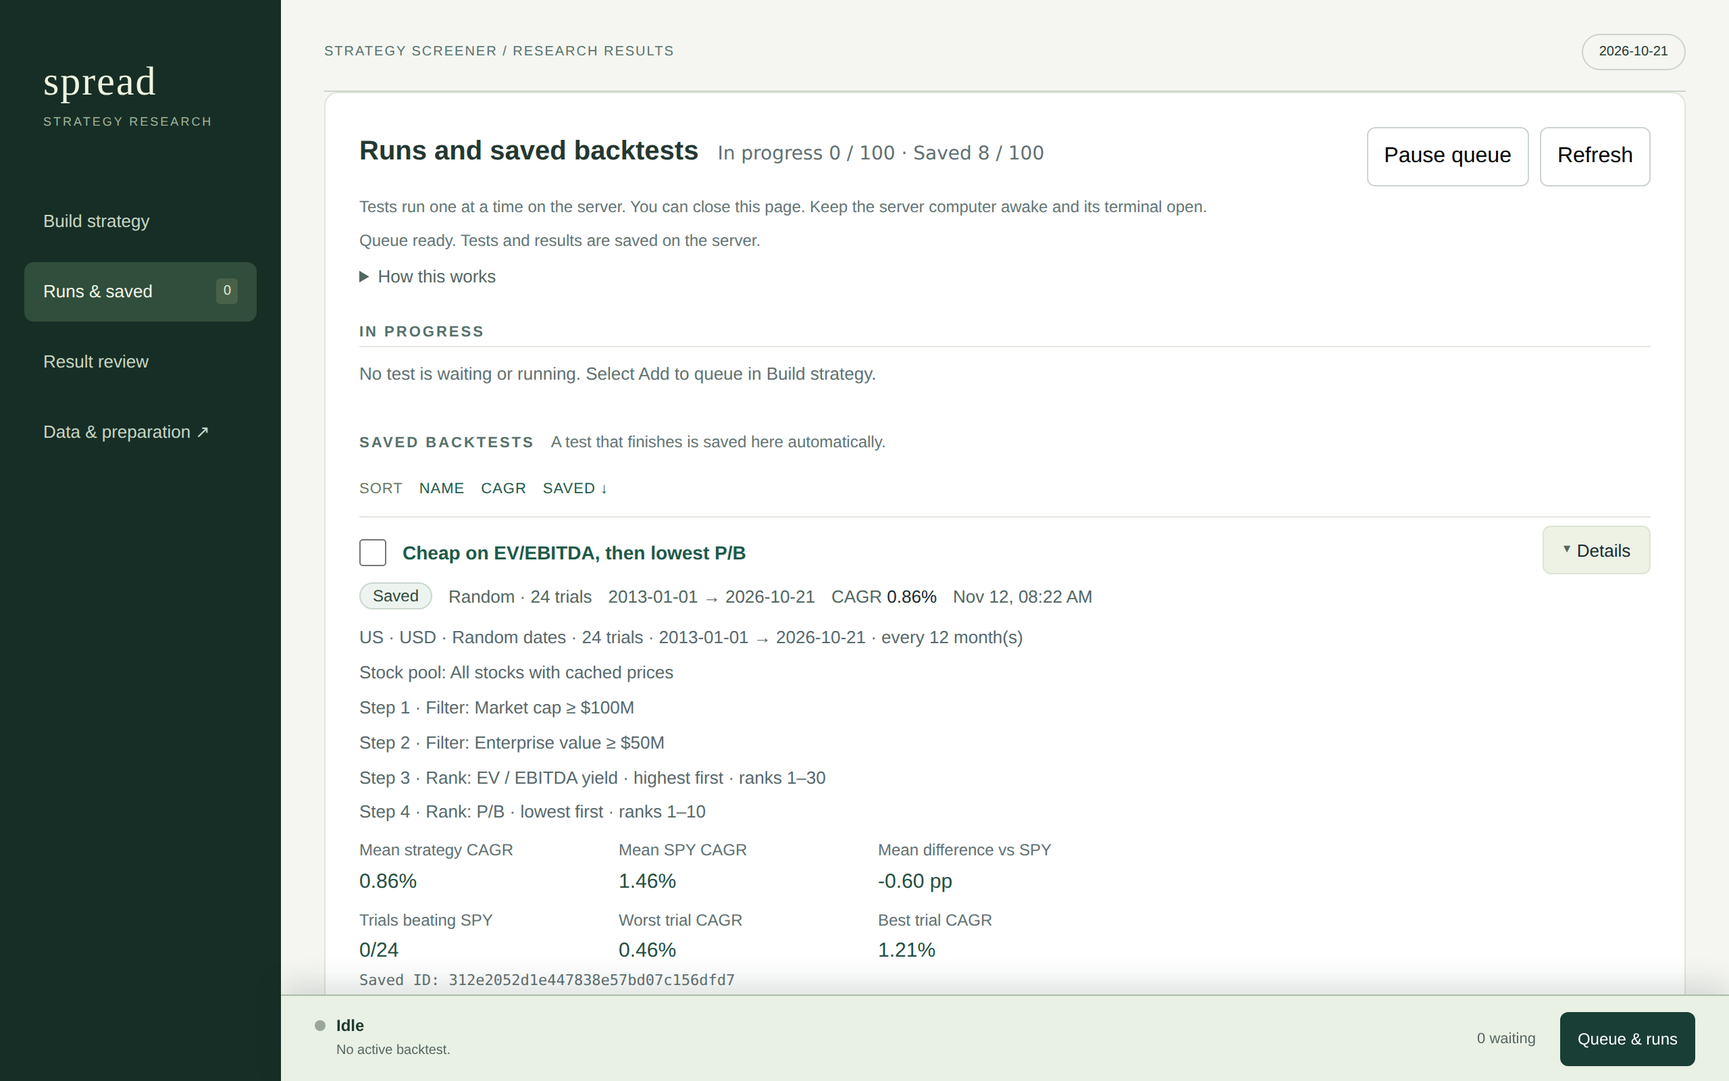
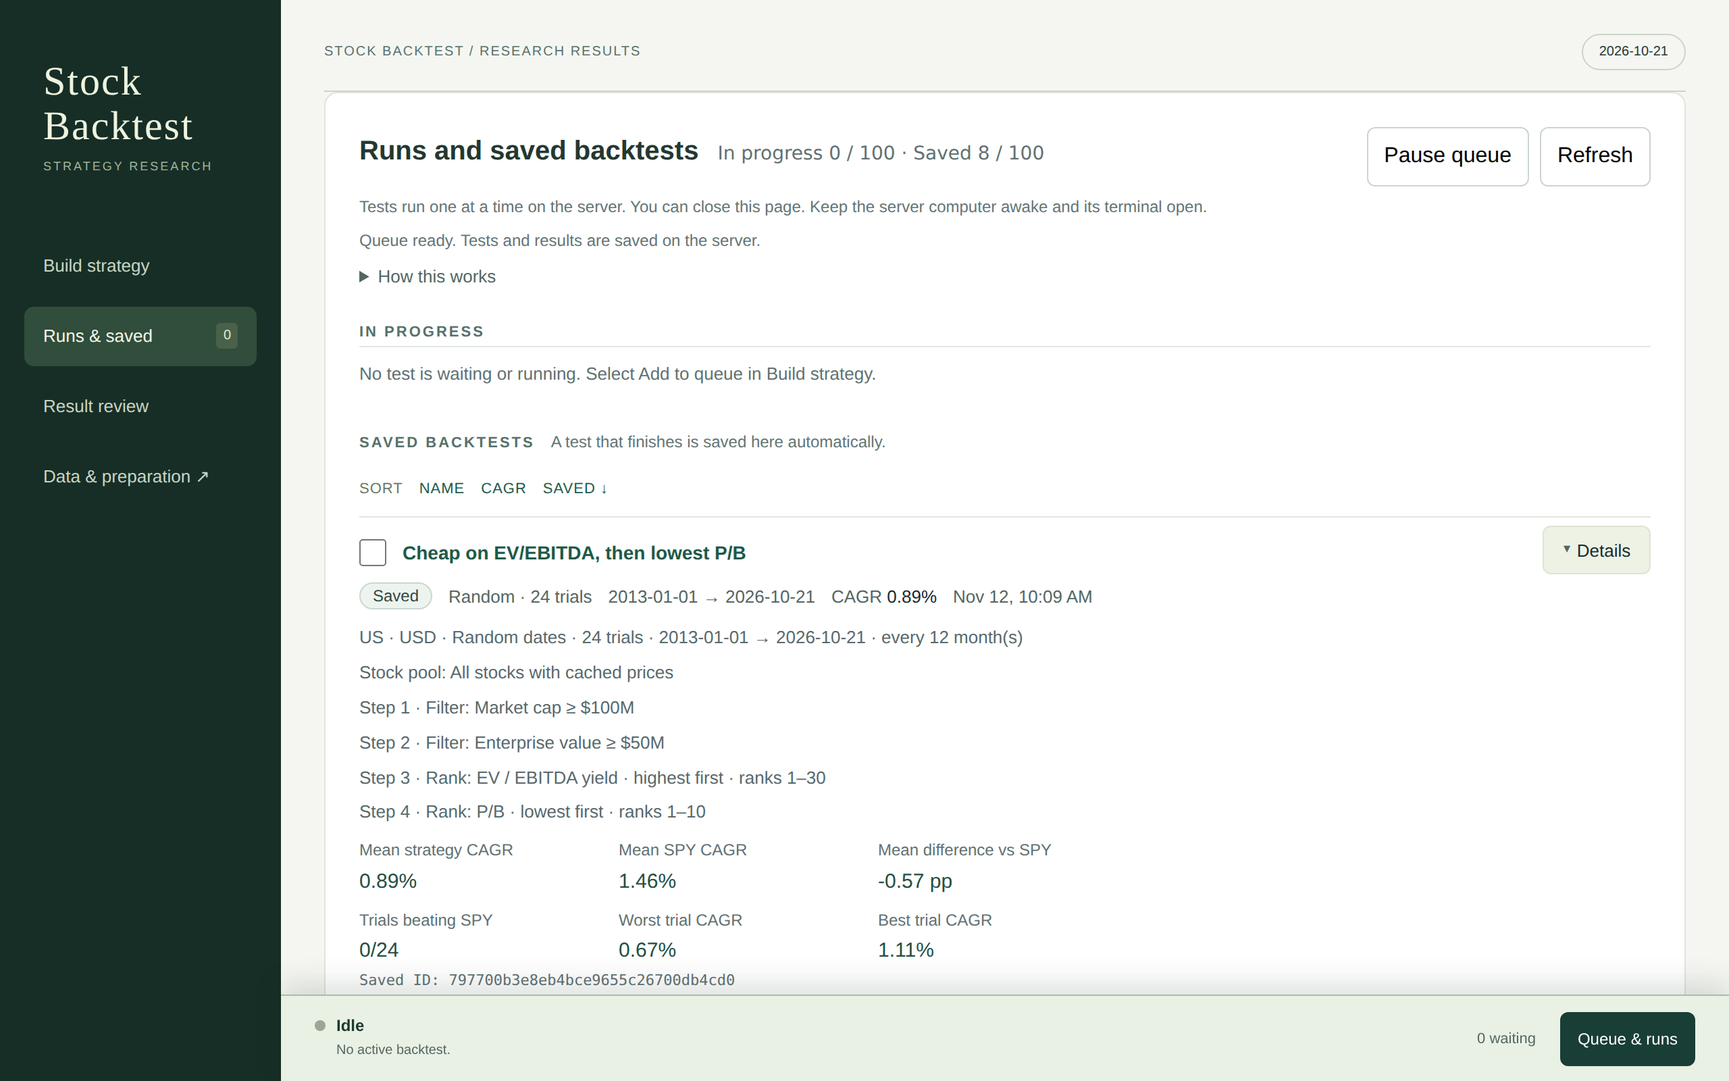
Use the name Stock Backtest across the website and the guide
- Website: the sidebar brand and the line at the top of each screen say
  Stock Backtest instead of "spread" and "Strategy screener".
- website/README.md is titled Stock Backtest website.
- Architecture guide: its tab title, sidebar label and main heading use
  the name instead of "How your backtest works" and "EBITDA / EV · User
  guide". No claim about the code changed, so the checked date stays.
- The README screenshots are taken again to show the new name.

Checks: fast tier 100/100; architecture guide check; check_records.

diff --git a/docs/architecture-guide/dist/index.html b/docs/architecture-guide/dist/index.html
@@ -5,7 +5,7 @@
 <meta name="viewport" content="width=device-width, initial-scale=1">
 <meta name="description" content="A plain-language guide to the EBITDA/EV backtest: data, stock selection, saved books, website modes and tested speed improvements.">
 <meta name="theme-color" content="#173f36">
-<title>How your backtest works · A plain-language guide</title>
+<title>Stock Backtest · Architecture guide</title>
 <style>
 :root{--paper:#f7f7f0;--white:#fff;--ink:#20352e;--muted:#617268;--green:#173f36;--accent:#cbea8b;--line:#dbe1d6;--soft:#edf1e7;--orange:#a85728;--orange-soft:#fbf0e4;--radius:16px}*{box-sizing:border-box}html{scroll-behavior:smooth;scroll-padding-top:30px}body{margin:0;background:var(--paper);color:var(--ink);font-family:system-ui,-apple-system,BlinkMacSystemFont,"Segoe UI",sans-serif;font-size:16px;line-height:1.65}a{color:var(--green);text-underline-offset:4px}button,select{font:inherit}button,a,select{touch-action:manipulation}button:focus-visible,a:focus-visible,select:focus-visible,summary:focus-visible{outline:3px solid #719d2d;outline-offset:4px}button{cursor:pointer}button:disabled{cursor:default}.skip{position:absolute;left:20px;top:-100px;background:var(--accent);padding:12px;z-index:10}.skip:focus{top:10px}.sidebar{position:fixed;inset:0 auto 0 0;width:250px;padding:35px 26px;background:var(--green);color:#fff;display:flex;flex-direction:column;z-index:3}.brand{display:flex;align-items:center;gap:12px;color:#fff;text-decoration:none;font-weight:650;line-height:1.35;letter-spacing:-.3px}.brand svg{width:39px;height:39px;flex-shrink:0}.brand small{display:block;font-size:11px;text-transform:uppercase;letter-spacing:1.8px;color:#b5c6bd;margin-top:4px}.sidebar nav{margin-top:48px;display:grid;gap:5px}.sidebar nav a{display:flex;gap:13px;padding:9px 11px;border-radius:8px;color:#d0dfd6;text-decoration:none;font-size:13px}.sidebar nav a span{font-size:11px;opacity:.6;align-self:center}.sidebar nav a:hover,.sidebar nav a[aria-current="location"]{background:#2d5549;color:#fff}.side-bottom{margin-top:auto;padding-top:22px;font-size:11px;color:#b5c6bd}.side-bottom strong{display:block;color:#e9f2e4;font-size:12px;font-weight:500;margin-bottom:7px}.print-button{border:1px solid #6d8a7b;background:transparent;color:#fff;border-radius:8px;padding:8px 12px;width:100%;margin-top:15px;font-size:12px}.print-button:hover{background:#2d5549}main{max-width:1330px;margin-left:250px;padding:43px 58px 30px}.topline{display:flex;justify-content:space-between;gap:15px;align-items:center;font-size:11px;letter-spacing:1.5px;text-transform:uppercase;color:var(--muted);padding-bottom:26px;border-bottom:1px solid var(--line)}.tag{display:inline-flex;align-items:center;gap:6px;border:1px solid var(--line);border-radius:99px;padding:5px 10px;font-size:10px;letter-spacing:1px;line-height:1.5}.tag::before{content:"";width:6px;height:6px;border-radius:50%;background:#719d2d}.hero{padding:55px 0 44px;max-width:850px}.eyebrow{font-size:11px;letter-spacing:1.8px;text-transform:uppercase;font-weight:700;color:var(--muted);margin:0 0 15px}h1,h2,h3,p{margin-top:0}h1,h2{font-family:Georgia,"Times New Roman",serif;font-weight:400;letter-spacing:-1.9px;line-height:1.09}h1{font-size:clamp(40px,5.2vw,69px);max-width:760px;margin-bottom:22px}h1 em{font-style:normal;color:#5a7651}h2{font-size:clamp(30px,3vw,43px);margin-bottom:18px;letter-spacing:-1px}h3{font-size:17px;letter-spacing:-.3px;line-height:1.4;margin-bottom:10px}p{margin-bottom:14px}.lead{font-size:18px;line-height:1.65;color:var(--muted);max-width:710px}.hero-facts{display:flex;gap:9px;flex-wrap:wrap;margin-top:25px}.hero-facts span{padding:5px 11px;background:var(--soft);border-radius:5px;font-size:12px}.section{padding:45px 0;border-top:1px solid var(--line);scroll-margin-top:25px}.section-head{max-width:760px;margin-bottom:25px}.section-head p{color:var(--muted);max-width:690px}.label{font-size:10px;text-transform:uppercase;letter-spacing:1.6px;font-weight:700;margin-bottom:10px;color:var(--muted)}.flow{display:grid;grid-template-columns:repeat(4,minmax(0,1fr));gap:12px}.flow-step{position:relative;background:var(--white);border:1px solid var(--line);border-radius:var(--radius);padding:22px 18px;min-height:178px;text-align:left;color:var(--ink)}.flow-step:not(:last-child)::after{content:"→";position:absolute;right:-15px;top:43%;z-index:1;background:var(--paper);color:var(--muted);font-size:19px;width:18px;text-align:center}.flow-step[aria-pressed="true"]{background:var(--green);border-color:var(--green);color:white}.step-number{display:block;font-size:11px;color:var(--muted);margin-bottom:17px}.flow-step[aria-pressed="true"] .step-number,.flow-step[aria-pressed="true"] .step-desc{color:#c1d5c6}.step-name{display:block;font-weight:650;font-size:16px;margin-bottom:7px}.step-desc{display:block;font-size:12px;line-height:1.6;color:var(--muted)}.flow-detail{padding:21px 24px;background:var(--soft);border-radius:10px;margin-top:14px;min-height:103px}.flow-detail h3{font-size:15px;margin-bottom:5px}.flow-detail p{font-size:14px;margin:0}.caption{font-size:12px;color:var(--muted);margin-top:13px;margin-bottom:0}.split{display:grid;grid-template-columns:1fr 1fr;gap:20px}.panel{background:var(--white);border:1px solid var(--line);border-radius:var(--radius);padding:25px}.panel p,.panel li{font-size:14px}.panel p:last-child{margin-bottom:0}.panel ul{padding-left:19px;margin-bottom:0}.panel li+li{margin-top:8px}.mode-tabs{display:flex;flex-wrap:wrap;gap:7px;margin-bottom:16px}.mode-tabs button{border:1px solid var(--line);border-radius:99px;padding:8px 15px;background:transparent;color:var(--muted);font-size:13px}.mode-tabs button[aria-pressed="true"]{background:var(--green);color:white;border-color:var(--green)}.mode-content{background:var(--white);border:1px solid var(--line);border-radius:var(--radius);padding:28px}.mode-status{font-size:10px;letter-spacing:1.1px;text-transform:uppercase;color:var(--muted);margin-bottom:12px}.mode-content h3{font-size:24px;font-family:Georgia,serif;font-weight:400}.route{display:flex;gap:9px;align-items:center;flex-wrap:wrap;margin:22px 0;font-size:12px}.route span{background:var(--soft);padding:9px 12px;border-radius:6px}.route b{font-weight:400;color:var(--muted)}.mode-content>p{font-size:14px;max-width:730px}.mode-panels{margin-bottom:16px}.mode-content[hidden]{display:none}.recipe{counter-reset:recipe;list-style:none;padding:0;margin:0;display:grid;grid-template-columns:1fr 1fr;gap:0 30px}.recipe li{counter-increment:recipe;position:relative;padding:23px 0 23px 43px;border-bottom:1px solid var(--line)}.recipe li::before{content:counter(recipe,decimal-leading-zero);position:absolute;left:0;top:23px;font-size:12px;color:#678355;font-weight:650}.recipe h3{font-size:16px;margin-bottom:7px}.recipe p{font-size:14px;color:var(--muted);margin:0}.note{border-left:3px solid #84a960;background:var(--soft);padding:17px 20px;margin-top:24px;font-size:14px}.note p:last-child{margin:0}.note.orange{border-color:#be8658;background:var(--orange-soft)}.formula{font-family:ui-monospace,SFMono-Regular,Consolas,monospace;background:var(--green);color:#e6efdf;padding:16px 20px;border-radius:9px;font-size:13px;overflow-wrap:anywhere;margin-top:20px}.settings{background:var(--green);color:#fff;border-radius:var(--radius);padding:26px;margin-top:24px}.settings .label{color:#c3d5c5}.settings-grid{display:grid;grid-template-columns:1.3fr .7fr 1.2fr;gap:14px}.settings label{font-size:12px;display:block}.settings select{display:block;width:100%;margin-top:7px;padding:10px 9px;border:1px solid #567566;background:#254f43;color:white;border-radius:7px;font-size:13px}.settings select option{color:var(--ink);background:white}.settings-explanation{margin:20px 0 0;font-size:14px;color:#e1ecdf;min-height:77px}.settings-explanation strong{color:var(--accent)}.table-wrap{overflow:auto;border:1px solid var(--line);border-radius:12px;background:#fff}table{width:100%;border-collapse:collapse;font-size:13px;text-align:left}th{background:var(--soft);font-size:11px;font-weight:600;color:var(--muted)}td,th{padding:14px 18px;border-bottom:1px solid var(--line);vertical-align:top}tr:last-child td{border-bottom:0}td:first-child{font-weight:550}td:last-child{color:var(--muted)}.cache-tip{display:flex;align-items:flex-start;gap:14px;margin-top:20px;padding:20px 23px;border:1px dashed #a7b69d;border-radius:12px}.cache-icon{font-size:24px;color:#6a8552;line-height:1.3}.cache-tip h3{font-size:15px;margin-bottom:5px}.cache-tip p{font-size:13px;color:var(--muted);margin:0}.comparison{display:grid;grid-template-columns:1fr 1fr;gap:18px;margin-bottom:25px}.comparison .panel{padding:22px}.comparison .label{margin-bottom:15px}.mini-flow{display:flex;flex-wrap:wrap;gap:6px;align-items:center;font-size:11px}.mini-flow span{padding:7px 9px;border:1px solid var(--line);border-radius:5px;background:var(--soft)}.mini-flow .unused{background:var(--orange-soft);border-color:#e4c6a9;color:var(--orange)}.mini-flow .selected{background:#e5f0d3;border-color:#c8dda6}.comparison p{font-size:13px;color:var(--muted);margin-top:16px}.bench{border:1px solid var(--line);border-radius:var(--radius);background:white;padding:27px}.bench-top{display:flex;justify-content:space-between;align-items:center;gap:10px;margin-bottom:24px}.bench-top h3{margin:0;font-size:16px}.prototype{font-size:10px;letter-spacing:1px;text-transform:uppercase;background:var(--orange-soft);color:var(--orange);border-radius:5px;padding:4px 8px;white-space:nowrap}.bench-row{display:grid;grid-template-columns:190px 1fr 83px;align-items:center;gap:16px;margin:20px 0;font-size:13px}.bench-row .bar-track{height:30px;background:var(--soft);border-radius:5px;overflow:hidden}.bar{height:100%;background:#aab7a0;border-radius:5px}.bar.green{background:var(--green)}.bar.lime{background:#91b25f}.bench-time{text-align:right;font-variant-numeric:tabular-nums;font-weight:650}.bench-row small{display:block;color:var(--muted);font-size:10px;font-weight:400}.bench .caption{line-height:1.75}.status-grid{display:grid;grid-template-columns:1fr 1fr;gap:20px;margin-top:22px}.status-grid p{font-size:13px;color:var(--muted)}.status-grid strong{color:var(--ink)}details{border-bottom:1px solid var(--line);padding:15px 0}summary{cursor:pointer;font-size:14px;font-weight:600;padding-right:10px}details p,details ul{font-size:14px;color:var(--muted);margin-top:12px;margin-bottom:5px}details li{margin-bottom:7px}code{font-family:ui-monospace,SFMono-Regular,Consolas,monospace;font-size:.88em;background:var(--soft);padding:2px 5px;border-radius:4px;overflow-wrap:anywhere}.files td:first-child{width:33%}.files code{display:block;font-size:11px;margin-top:5px;line-height:1.8;background:none;padding:0;color:var(--muted)}.glossary{display:grid;grid-template-columns:1fr 1fr;gap:0 28px;margin:0}.glossary div{padding:16px 0;border-bottom:1px solid var(--line)}dt{font-size:14px;font-weight:650;margin-bottom:5px}dd{font-size:13px;color:var(--muted);margin:0}.footer{border-top:1px solid var(--line);padding:25px 0 10px;display:flex;justify-content:space-between;gap:20px;font-size:11px;color:var(--muted)}.footer a{color:inherit}.readable-width{max-width:760px}
 @media(min-width:1500px){main{margin-left:calc(250px + (100vw - 1500px)/2)}}@media(max-width:1100px){.sidebar{width:215px;padding:28px 18px}main{margin-left:215px;padding:32px}.flow{gap:9px}.flow-step{padding:18px 12px}.settings-grid{grid-template-columns:1fr 1fr}.settings-grid label:last-child{grid-column:1/-1}.bench-row{grid-template-columns:150px 1fr 75px}}@media(max-width:760px){html{scroll-padding-top:20px}.sidebar{position:relative;width:auto;padding:20px;display:block}.brand svg{width:32px;height:32px}.brand small{font-size:9px}.sidebar nav{display:flex;gap:4px;overflow:auto;margin-top:20px;padding-bottom:3px}.sidebar nav a{white-space:nowrap;font-size:12px;padding:7px 9px}.sidebar nav a span{display:none}.side-bottom{display:none}main{margin:0;padding:25px 21px}.topline{font-size:9px;letter-spacing:1px;padding-bottom:20px}.hero{padding:35px 0}.hero .lead{font-size:16px}.section{padding:34px 0}.flow{grid-template-columns:1fr 1fr;gap:10px}.flow-step{min-height:145px;padding:17px}.flow-step::after{display:none}.step-number{margin-bottom:11px}.split,.comparison,.status-grid,.recipe,.glossary{grid-template-columns:1fr}.recipe{gap:0}.settings-grid{grid-template-columns:1fr}.settings-grid label:last-child{grid-column:auto}.settings{padding:21px}.bench{padding:20px 17px}.bench-top{align-items:flex-start}.bench-row{grid-template-columns:1fr 72px;gap:8px;margin:22px 0}.bench-row .bar-track{grid-row:2;grid-column:1/-1;height:23px}.bench-time{grid-row:1;grid-column:2}.mode-content{padding:22px}.table-wrap{font-size:12px}td,th{padding:12px}.footer{display:block}.footer p{margin-bottom:8px}h2{font-size:32px}}
@@ -15,7 +15,7 @@
 <body>
 <a class="skip" href="#main">Skip to the guide</a>
 <aside class="sidebar" aria-label="Guide navigation">
-  <a class="brand" href="#overview"><svg viewBox="0 0 40 40" aria-hidden="true"><rect x="1" y="1" width="38" height="38" rx="10" fill="none" stroke="#668b70"/><path d="M10 28V18m10 10V11m10 17V20" stroke="#cbea8b" stroke-width="3" stroke-linecap="round"/></svg><span>Inside the backtest<small>EBITDA / EV · User guide</small></span></a>
+  <a class="brand" href="#overview"><svg viewBox="0 0 40 40" aria-hidden="true"><rect x="1" y="1" width="38" height="38" rx="10" fill="none" stroke="#668b70"/><path d="M10 28V18m10 10V11m10 17V20" stroke="#cbea8b" stroke-width="3" stroke-linecap="round"/></svg><span>Stock Backtest<small>Architecture guide</small></span></a>
   <nav aria-label="Contents">
     <a href="#overview" aria-current="location"><span>01</span>The whole system</a>
     <a href="#modes"><span>02</span>Four ways to use it</a>
@@ -32,7 +32,7 @@
   <div class="topline"><span>Your stock research workspace</span><span class="tag">Architecture, in plain language</span></div>
   <header class="hero" id="overview">
     <p class="eyebrow">01 / The whole system</p>
-    <h1>How your<br><em>backtest works.</em></h1>
+    <h1>How Stock<br><em>Backtest works.</em></h1>
     <p class="lead">The program uses saved company data and prices to select stocks. It then checks how those stocks performed.</p>
     <p class="readable-width">This guide explains each part, how the parts connect, and why some runs take longer. You do not need to read the code.</p>
     <div class="hero-facts"><span>Saved data</span><span>One set of selection rules</span><span>Four ways to use it</span><span>No downloads during a backtest</span></div>

diff --git a/website/browser/template.html b/website/browser/template.html
@@ -7,7 +7,7 @@ input{font:inherit;padding:9px;border:1px solid #ccd5d0;border-radius:5px;width:
 .backtest-failed{color:#a93830;font-weight:600}button:disabled{opacity:.65;cursor:wait}
 .extra-filters{margin-top:14px;border-top:1px solid #e2e7df;padding-top:12px}.extra-filters h3{font-size:16px;margin:0}
 .run-controls{display:flex;align-items:center;gap:12px;flex-wrap:wrap;margin:18px 0}.run-controls label{display:flex;align-items:center;gap:9px;min-height:44px}#results-state{border:1px solid #b5d3c6;margin:0 0 10px}.result-note{font-size:12px;line-height:1.5;color:#647575;margin:0 0 6px;max-width:960px}#results-state.warning{border-color:#d4a34f;font-weight:600}[data-results-stale="true"]{border-left:4px solid #d4a34f;padding-left:16px}
-</style></head><body>__WORKSPACE_NAV__<main><header><span class="eyebrow">Strategy screener / Research results</span><span class="pill">Latest cached close</span></header><section id="workspace-builder"><div class="mode-switch" role="group" aria-label="Screening view"><button id="mode-latest" type="button" aria-pressed="true">Latest stock picks</button> <button id="mode-backtest" type="button" aria-pressed="false">Historical backtest</button></div><section class="panel" aria-labelledby="strategy-heading"><form id="strategy-form"><div class="toolbar"><div><span class="eyebrow">Strategy builder</span><h2 id="strategy-heading">Rank stocks</h2></div><div class="strategy-actions"><button type="button" id="reset-strategy">Reset strategy</button><button type="submit" id="run-screen" class="primary">Screen latest</button><span id="queue-controls" hidden><input id="queue-name" type="text" maxlength="120" aria-label="Test name (optional)" placeholder="Test name (optional)"><button type="button" id="queue-add" class="primary" disabled>Add to queue</button><button type="button" id="queue-cancel-edit" hidden>Cancel edit</button><a id="queue-link" href="#queue-heading" data-workspace="runs">Open Runs &amp; saved →</a></span></div></div><p id="queue-builder-status" class="hint" role="status" aria-live="polite" hidden><span id="queue-add-status" class="hint"></span> <span id="queue-edit-note"></span></p>
+</style></head><body>__WORKSPACE_NAV__<main><header><span class="eyebrow">Stock Backtest / Research results</span><span class="pill">Latest cached close</span></header><section id="workspace-builder"><div class="mode-switch" role="group" aria-label="Screening view"><button id="mode-latest" type="button" aria-pressed="true">Latest stock picks</button> <button id="mode-backtest" type="button" aria-pressed="false">Historical backtest</button></div><section class="panel" aria-labelledby="strategy-heading"><form id="strategy-form"><div class="toolbar"><div><span class="eyebrow">Strategy builder</span><h2 id="strategy-heading">Rank stocks</h2></div><div class="strategy-actions"><button type="button" id="reset-strategy">Reset strategy</button><button type="submit" id="run-screen" class="primary">Screen latest</button><span id="queue-controls" hidden><input id="queue-name" type="text" maxlength="120" aria-label="Test name (optional)" placeholder="Test name (optional)"><button type="button" id="queue-add" class="primary" disabled>Add to queue</button><button type="button" id="queue-cancel-edit" hidden>Cancel edit</button><a id="queue-link" href="#queue-heading" data-workspace="runs">Open Runs &amp; saved →</a></span></div></div><p id="queue-builder-status" class="hint" role="status" aria-live="polite" hidden><span id="queue-add-status" class="hint"></span> <span id="queue-edit-note"></span></p>
 <div class="builder-options"><label>Market<select id="stock-market"><option value="us">US</option><option value="hk">Hong Kong</option><option value="jp">Japan · Tokyo</option></select></label><label>Stock universe<select id="stock-pool" aria-describedby="legacy-pool-note"><option value="cached">All stocks with cached prices</option></select></label><span id="auto-run-controls"><label class="check"><input type="checkbox" id="auto-run" checked> Auto-run when settings change</label><span class="hint" id="auto-run-note"></span></span><span id="legacy-pool-note" class="hint" hidden>This pool pre-selects the 250 highest report EBITDA/EV yields. Use all stocks with cached prices for an unbiased ranking.</span></div>
 <section class="extra-filters" id="strategy-steps-section" aria-labelledby="strategy-steps-title"><div class="toolbar"><div class="section-heading"><h3 id="strategy-steps-title">Steps</h3><p class="hint">Steps run in order after the universe. A Filter keeps the stocks that pass. A Rank orders them and keeps its rank range.</p></div><div class="strategy-step-actions"><button type="button" id="add-filter">+ Add filter</button> <button type="button" id="add-rank">+ Add rank</button></div></div><ol id="strategy-steps" aria-label="Strategy steps"></ol><p id="filter-message" class="hint" role="status" aria-live="polite"></p>
 <details class="how-it-works"><summary>How this works</summary><p class="hint" id="strategy-ranking-help">The last Rank sets the final order and ranks; filters after it add no replacements. Each selected stock receives equal weight. Latest mode ranks at the latest cached close. Backtests rebalance on the selected fixed or random schedule.</p><p class="hint">Auto-run works in Latest stock picks: turn it off to change several settings, then select Screen latest. A dated test runs from Add to queue.</p><p class="hint">Sales-based operating yield spread: latest eligible annual sales × the simple average of operating margins from 3 consecutive annual reports ÷ screen-date EV, minus the US 10-year Treasury yield. Each annual operating margin is operating income ÷ sales. Use the latest saved Treasury yield on or before the screen date. Enter 5 for a spread of 5 percentage points. Missing years, operating inputs or Treasury yields fail this condition.</p><p class="hint">Three-year metric divides current EV by mean EBITDA from three consecutive annual reports available at the screening date; stocks missing a year are excluded. Yield is the reciprocal of the selected multiple. New strategies use all eligible stocks with cached prices. Recorded US legacy strategies retain their original candidate set.</p><p class="hint" id="prepared-views-help">Offline latest screens use shared prepared data. Other latest chains and dated backtests use Original on the local service. Completed results keep the engine used and their original downloads.</p></details></section>

diff --git a/website/browser/workspace.html b/website/browser/workspace.html
@@ -1,5 +1,5 @@
 <nav id="workspace-nav" aria-label="Research workspace">
-  <a class="workspace-brand" href="#" data-workspace="builder">spread<small>Strategy research</small></a>
+  <a class="workspace-brand" href="#" data-workspace="builder">Stock Backtest<small>Strategy research</small></a>
   <button type="button" data-workspace="builder" aria-current="page">Build strategy</button>
   <button type="button" data-workspace="runs">Runs & saved <span id="workspace-queue-count"></span></button>
   <button type="button" data-workspace="review">Result review</button>

diff --git a/website/README.md b/website/README.md
@@ -1,4 +1,4 @@
-# Strategy screener
+# Stock Backtest website
 
 Double-click `../start.cmd` on Windows, or run `python3 website/serve.py` from the project root. The launcher refreshes stale caches, rebuilds the website if needed, starts the service and opens the browser. Unchanged caches are reused; no API key or market-data downloads are needed. A portable export built with `python3 website/build.py --snapshot` opens directly from `dist/index.html` and supports the saved latest view.
 
